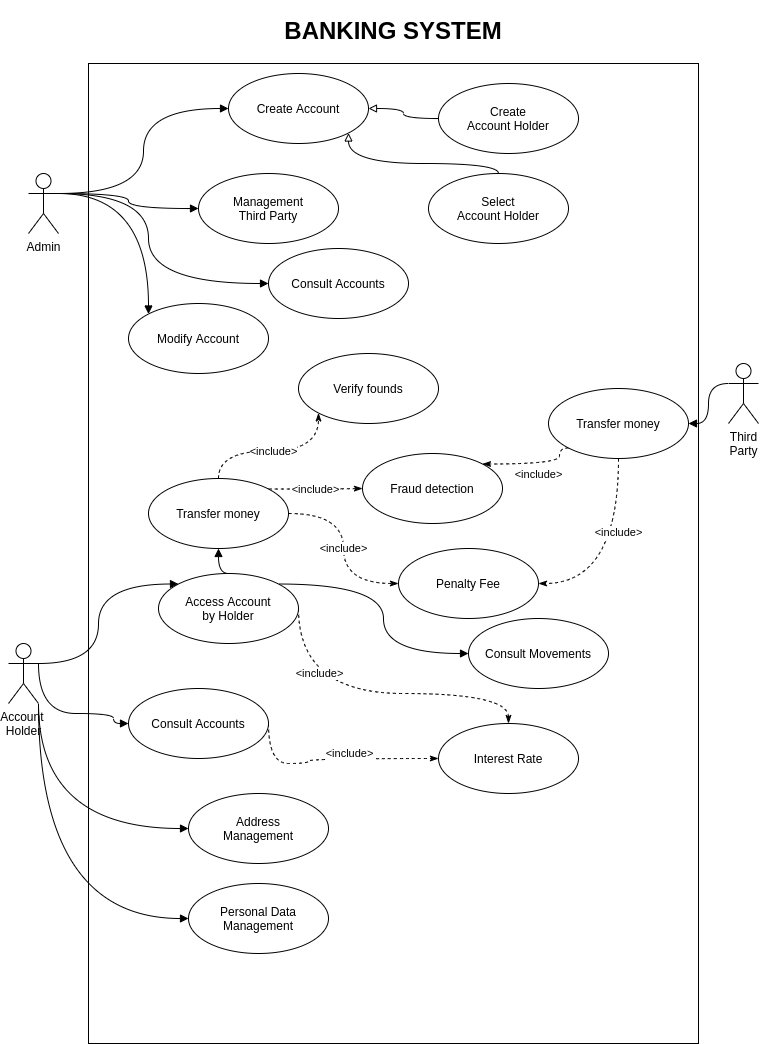
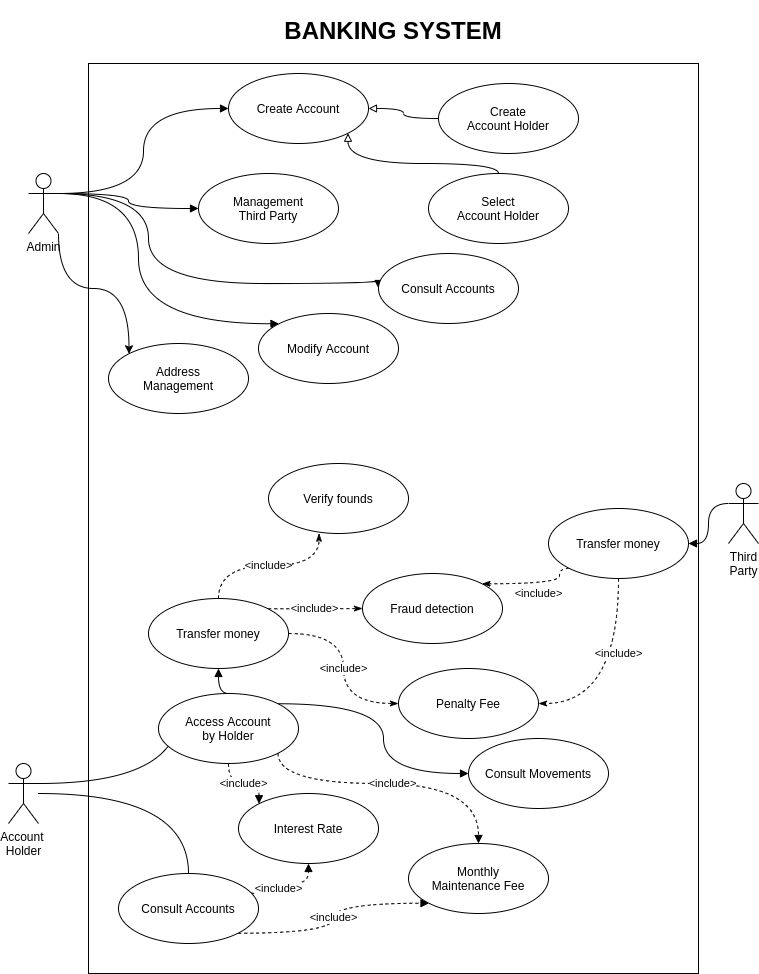
feat: implements monthly maintenance fee

diff --git a/src/test/java/com/ironhack/midtermproject/classes/DecreasedMonthlyMaintenanceFeeTest.java b/src/test/java/com/ironhack/midtermproject/classes/DecreasedMonthlyMaintenanceFeeTest.java
@@ -1,0 +1,133 @@
+package com.ironhack.midtermproject.classes;
+
+import com.ironhack.midtermproject.enums.MovementType;
+import com.ironhack.midtermproject.model.Account;
+import com.ironhack.midtermproject.model.Checking;
+import com.ironhack.midtermproject.model.Movement;
+import com.ironhack.midtermproject.repository.CheckingRepository;
+import com.ironhack.midtermproject.repository.MovementRepository;
+import org.junit.jupiter.api.AfterEach;
+import org.junit.jupiter.api.BeforeEach;
+import org.junit.jupiter.api.Test;
+import org.springframework.beans.factory.annotation.Autowired;
+import org.springframework.boot.test.context.SpringBootTest;
+
+import java.math.BigDecimal;
+import java.time.LocalDate;
+
+import static org.junit.jupiter.api.Assertions.*;
+import static org.junit.jupiter.api.Assertions.assertFalse;
+
+@SpringBootTest
+class DecreasedMonthlyMaintenanceFeeTest {
+
+    @Autowired
+    CheckingRepository checkingRepository;
+
+    @Autowired
+    MovementRepository movementRepository;
+
+    @Autowired
+    DecreasedMonthlyMaintenanceFee decreasedMonthlyMaintenanceFee;
+
+    Checking checkingToday;
+    Checking checking1month;
+    Movement movement;
+
+    @BeforeEach
+    void setUp() {
+        checkingToday = new Checking();
+        checkingToday.setPenaltyFee(BigDecimal.ZERO);
+        checkingToday.setMonthlyMaintenanceFee(BigDecimal.valueOf(12));
+        checkingToday.setCreationDate(LocalDate.now());
+        checkingRepository.save(checkingToday);
+
+        movement = new Movement();
+        movement.setTransferAmount(BigDecimal.TEN);
+        movement.setBalanceBefore(BigDecimal.ZERO);
+        movement.setBalanceAfter(BigDecimal.valueOf(10));
+        movement.setMovementType(MovementType.CREATED);
+        movement.setOrderDate(LocalDate.now());
+        movement.setAccount(checkingToday);
+        movementRepository.save(movement);
+
+        checking1month = new Checking();
+        checking1month.setPenaltyFee(BigDecimal.ZERO);
+        checking1month.setCreationDate(LocalDate.now().minusMonths(1));
+        checkingRepository.save(checking1month);
+
+        movement = new Movement();
+        movement.setTransferAmount(BigDecimal.TEN);
+        movement.setBalanceBefore(BigDecimal.ZERO);
+        movement.setBalanceAfter(BigDecimal.valueOf(10));
+        movement.setMovementType(MovementType.CREATED);
+        movement.setOrderDate(LocalDate.now().minusMonths(1));
+        movement.setAccount(checking1month);
+        movementRepository.save(movement);
+    }
+
+    @AfterEach
+    void tearDown() {
+        movementRepository.deleteAll();
+        checkingRepository.deleteAll();
+    }
+
+    @Test
+    void isMonthlyMaintenanceFeeToAdd_ReturnFalse_CreateToday() {
+
+        assertFalse(decreasedMonthlyMaintenanceFee.isMonthlyMaintenanceFeeToAdd(checkingToday.getId()));
+    }
+
+    @Test
+    void isMonthlyMaintenanceFeeToAdd_ReturnTrue_CreateMoreThanAMonth() {
+
+        assertTrue(decreasedMonthlyMaintenanceFee.isMonthlyMaintenanceFeeToAdd(checking1month.getId()));
+    }
+
+    @Test
+    void isMonthlyMaintenanceFeeToAdd_ReturnTrue_LastMonthlyMaintenanceFeeMoreThanAMonth() {
+
+        movement = new Movement();
+        movement.setTransferAmount(BigDecimal.TEN);
+        movement.setBalanceBefore(BigDecimal.ZERO);
+        movement.setBalanceAfter(BigDecimal.valueOf(10));
+        movement.setMovementType(MovementType.MONTHLY_MAINTENANCE);
+        movement.setOrderDate(LocalDate.now().minusMonths(1));
+        movement.setAccount(checking1month);
+        movementRepository.save(movement);
+        assertTrue(decreasedMonthlyMaintenanceFee.isMonthlyMaintenanceFeeToAdd(checking1month.getId()));
+    }
+
+    @Test
+    void calculateMonthlyMaintenanceFeeToSet_CorrectCalculation_ActualAmountPositive() {
+
+        BigDecimal result = BigDecimal.valueOf(-11);
+        assertEquals(result, decreasedMonthlyMaintenanceFee.calculateMonthlyMaintenanceFeeToSet(BigDecimal.valueOf(1), BigDecimal.valueOf(12)));
+
+        result = BigDecimal.valueOf(100);
+        assertEquals(result, decreasedMonthlyMaintenanceFee.calculateMonthlyMaintenanceFeeToSet(BigDecimal.valueOf(112), BigDecimal.valueOf(12)));
+
+        result = BigDecimal.valueOf(443.87);
+        assertEquals(result, decreasedMonthlyMaintenanceFee.calculateMonthlyMaintenanceFeeToSet(BigDecimal.valueOf(455.87), BigDecimal.valueOf(12)));
+    }
+
+    @Test
+    void calculateMonthlyMaintenanceFeeToSet_CorrectCalculation_ActualAmountZero() {
+
+        BigDecimal result = BigDecimal.valueOf(-12);
+        assertEquals(result, decreasedMonthlyMaintenanceFee.calculateMonthlyMaintenanceFeeToSet(BigDecimal.ZERO, BigDecimal.valueOf(12)));
+
+        result = BigDecimal.valueOf(-100);
+        assertEquals(result, decreasedMonthlyMaintenanceFee.calculateMonthlyMaintenanceFeeToSet(BigDecimal.ZERO, BigDecimal.valueOf(100)));
+    }
+
+    @Test
+    void calculateMonthlyMaintenanceFeeToSet_CorrectCalculation_ActualAmountNegative() {
+
+        BigDecimal result = BigDecimal.valueOf(-13);
+        assertEquals(result, decreasedMonthlyMaintenanceFee.calculateMonthlyMaintenanceFeeToSet(BigDecimal.valueOf(-1), BigDecimal.valueOf(12)));
+
+        result = BigDecimal.valueOf(-45.03);
+        assertEquals(result, decreasedMonthlyMaintenanceFee.calculateMonthlyMaintenanceFeeToSet(BigDecimal.valueOf(-33.03), BigDecimal.valueOf(12)));
+    }
+}

diff --git a/src/main/java/com/ironhack/midtermproject/classes/DecreasedMonthlyMaintenanceFee.java b/src/main/java/com/ironhack/midtermproject/classes/DecreasedMonthlyMaintenanceFee.java
@@ -1,0 +1,37 @@
+package com.ironhack.midtermproject.classes;
+
+import com.ironhack.midtermproject.enums.MovementType;
+import com.ironhack.midtermproject.model.Account;
+import com.ironhack.midtermproject.repository.AccountRepository;
+import org.springframework.beans.factory.annotation.Autowired;
+import org.springframework.stereotype.Service;
+
+import java.math.BigDecimal;
+import java.time.LocalDate;
+import java.time.Period;
+import java.util.List;
+
+@Service
+public class DecreasedMonthlyMaintenanceFee {
+
+    @Autowired
+    AccountRepository accountRepository;
+
+    public boolean isMonthlyMaintenanceFeeToAdd(int id) {
+
+        LocalDate now = LocalDate.now();
+
+        List<Account> accountList = accountRepository.findByIdAndMovementType(id, MovementType.MONTHLY_MAINTENANCE);
+
+        if (accountList.isEmpty()) {
+            accountList = accountRepository.findByIdAndMovementType(id, MovementType.CREATED);
+        }
+
+        return Period.between(accountList.get(0).getMovementList().get(0).getOrderDate(), now).getMonths() != 0;
+    }
+
+    public BigDecimal calculateMonthlyMaintenanceFeeToSet(BigDecimal actualAmount, BigDecimal monthlyMaintenanceFee) {
+
+        return actualAmount.subtract(monthlyMaintenanceFee);
+    }
+}

diff --git a/src/main/java/com/ironhack/midtermproject/enums/MovementType.java b/src/main/java/com/ironhack/midtermproject/enums/MovementType.java
@@ -1,5 +1,5 @@
 package com.ironhack.midtermproject.enums;
 
 public enum MovementType {
-    CREATED, CLOSED, FROZEN, UNFROZEN, ADDED, DECREASED, INTEREST_RATE
+    CREATED, CLOSED, FROZEN, UNFROZEN, ADDED, DECREASED, INTEREST_RATE, MONTHLY_MAINTENANCE
 }
